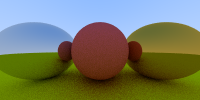
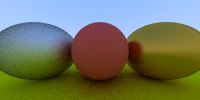
add metal fuzz

diff --git a/ray.go b/ray.go
@@ -58,6 +58,7 @@ func BasicRay() image.Image {
 			Center: Vec3{1, 0, -1},
 			Radius: 0.5,
 			Material: Metal{
+				Fuzz:   0.3,
 				Albedo: Vec3{0.8, 0.6, 0.2},
 			},
 		},
@@ -65,6 +66,7 @@ func BasicRay() image.Image {
 			Center: Vec3{-1, 0, -1},
 			Radius: 0.5,
 			Material: Metal{
+				Fuzz:   1,
 				Albedo: Vec3{0.8, 0.8, 0.8},
 			},
 		},
@@ -221,6 +223,7 @@ func (l Lambertian) Scatter(r Ray, h Hit) (scattered Ray, attenuation Vec3, ok b
 // Metal is a material which reflects light
 type Metal struct {
 	Albedo Vec3
+	Fuzz   float64
 }
 
 // reflect the ray
@@ -232,7 +235,7 @@ func (Metal) reflect(v, n Vec3) Vec3 {
 func (m Metal) Scatter(r Ray, h Hit) (scattered Ray, attenuation Vec3, ok bool) {
 	scattered = Ray{
 		Origin: h.Pos,
-		Dir:    m.reflect(r.Dir.Unit(), h.Norm),
+		Dir:    m.reflect(r.Dir.Unit(), h.Norm).Add(RandomInUnitSphere().ScalarMul(m.Fuzz)),
 	}
 	return scattered, m.Albedo, scattered.Dir.Dot(h.Norm) > 0
 }
